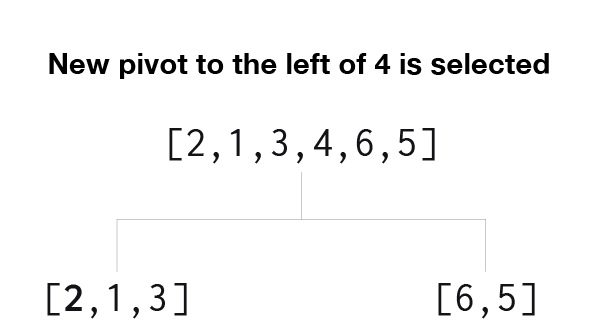
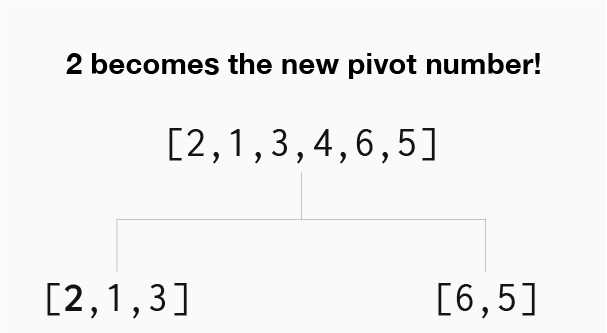
Updated photos
Updated photos in quick sort section

Changed region(s): [[0.0593, 0.1502, 0.9193, 0.2402]]

diff --git a/README.md b/README.md
@@ -54,17 +54,19 @@ Once we have broken down the data into arrays of length zero or one the algorith
 
 **Time complexity: O(n log(n))** - Best/average case | **O(n<sup>2</sup>)** - Worst case
 
-Quick sort is similar to merge sort in that it will break down the data into smaller arrays until the lengths have reach zero or one. To begin breaking down the data into smaller arrays, the algorithm chooses a **pivot** value. It will then move the values less than the pivot to the left of the pivot, and numbers greater than the pivot to the right of the pivot.
-
-4 will become the first pivot
+Quick sort is similar to merge sort in that it will break down the array of numbers into smaller arrays until the lengths have reach one. To begin breaking down the data, the algorithm chooses a **pivot** value.
 
 ![](images/quick_sort_one.png)
 
-Say our array of is [3,5,4,2,1] the algorithm will start by chosing the number 3. The algorithm will then run through the rest of the data, placing values less than 3 to the left of 3 and values greater 3 to the right of 3. The array of numbers will now look like [2,1,**3**,5,4].
+In this version, we will select the first number of the array to be the pivot value. After selecting our pivot value, we will run through the rest of the numbers in the array. We will move numbers less than the pivot value to the left of it and numbers largers than the pivot value to the right.
 
-Next, the algorithm picks a new number to the left of the previous pivot point, to be the new pivot value. In this scenario, there are only two numbers left of 3 which are 2 and 1. The algorithm splits these two numbers up into their own arrays. Now that the algorithm has broken every value to the left of the 3 down into their own arrays it will compare 1 and 2 and place them back into the original array in order. Thus, the data now will look like [1,2,3,5,4].
+![](images/quick_sort_two.png)
 
-After the left side has been sorted, the algorithm moves to the right side of 3, selectes a new pivot and repeats the entire process until the data is sorted.
+After moving all the numbers, in most cases there will be numbers to the left and numbers to the right of the pivot value. However, just because the values are all less than the pivot number, the numbers are not in the correct order. The numbers are moved in the order that they are read in respectively. This means that all the numbers less than the pivot value need to be sorted.
+
+To begin sorting the numbers less than th pivot number, let's pick a new pivot number!
+
+![](images/quick_sort_three.png)
 
 ## Radix Sort
 
